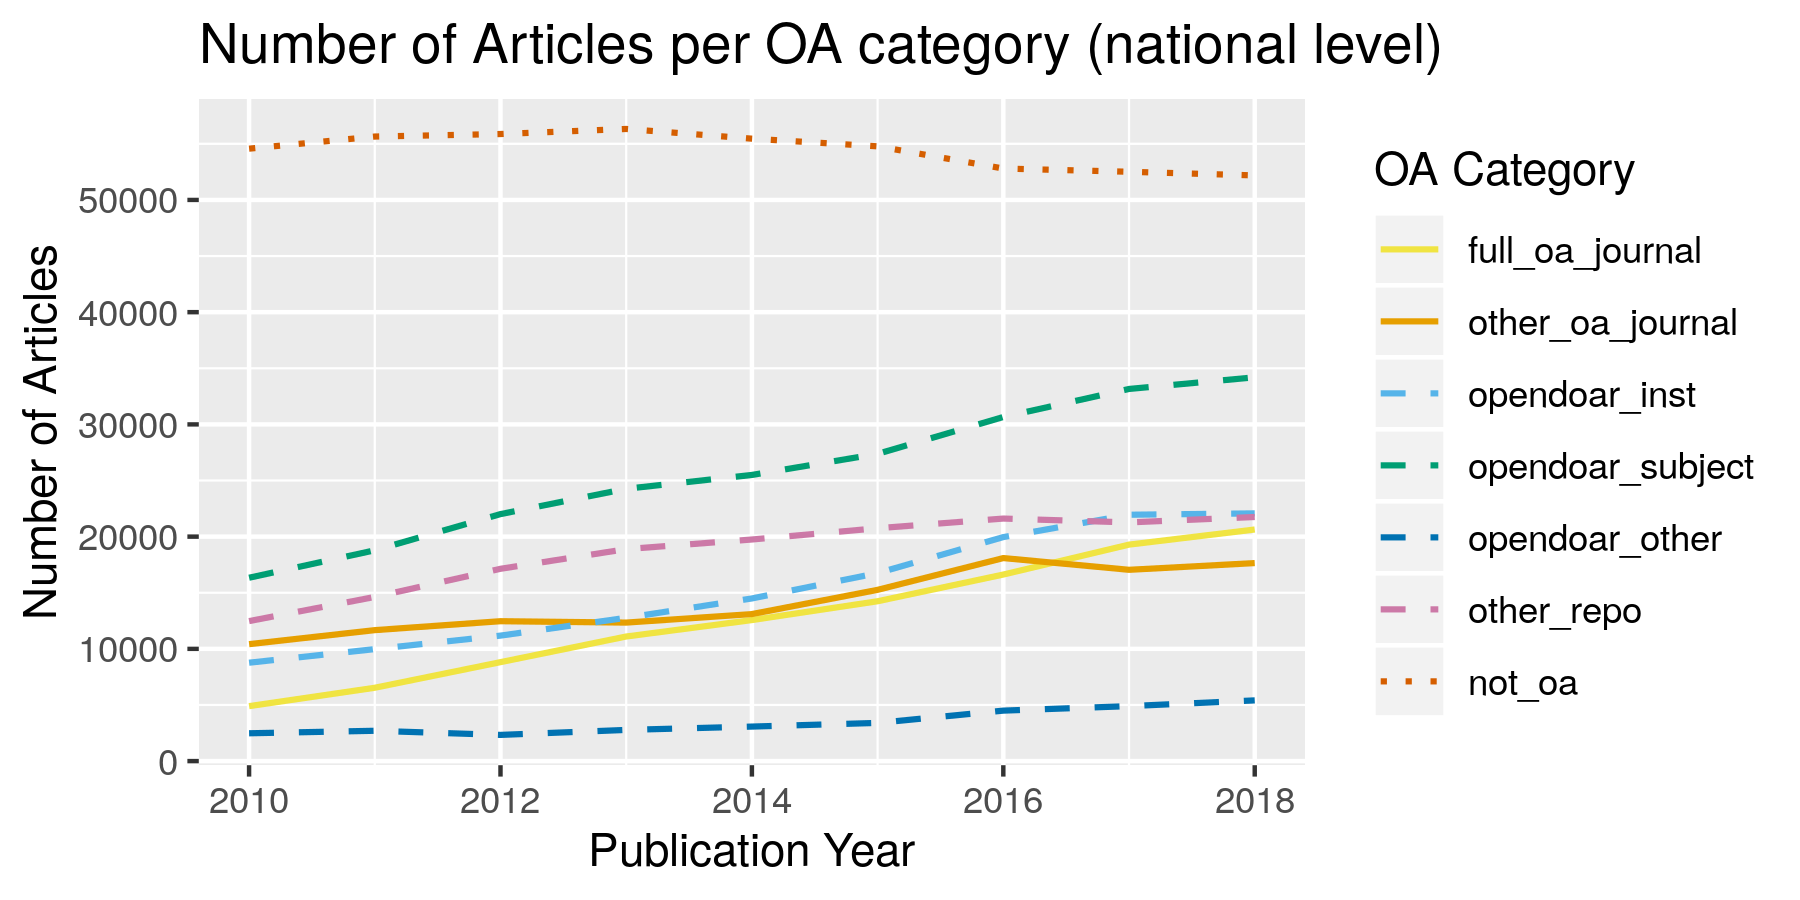
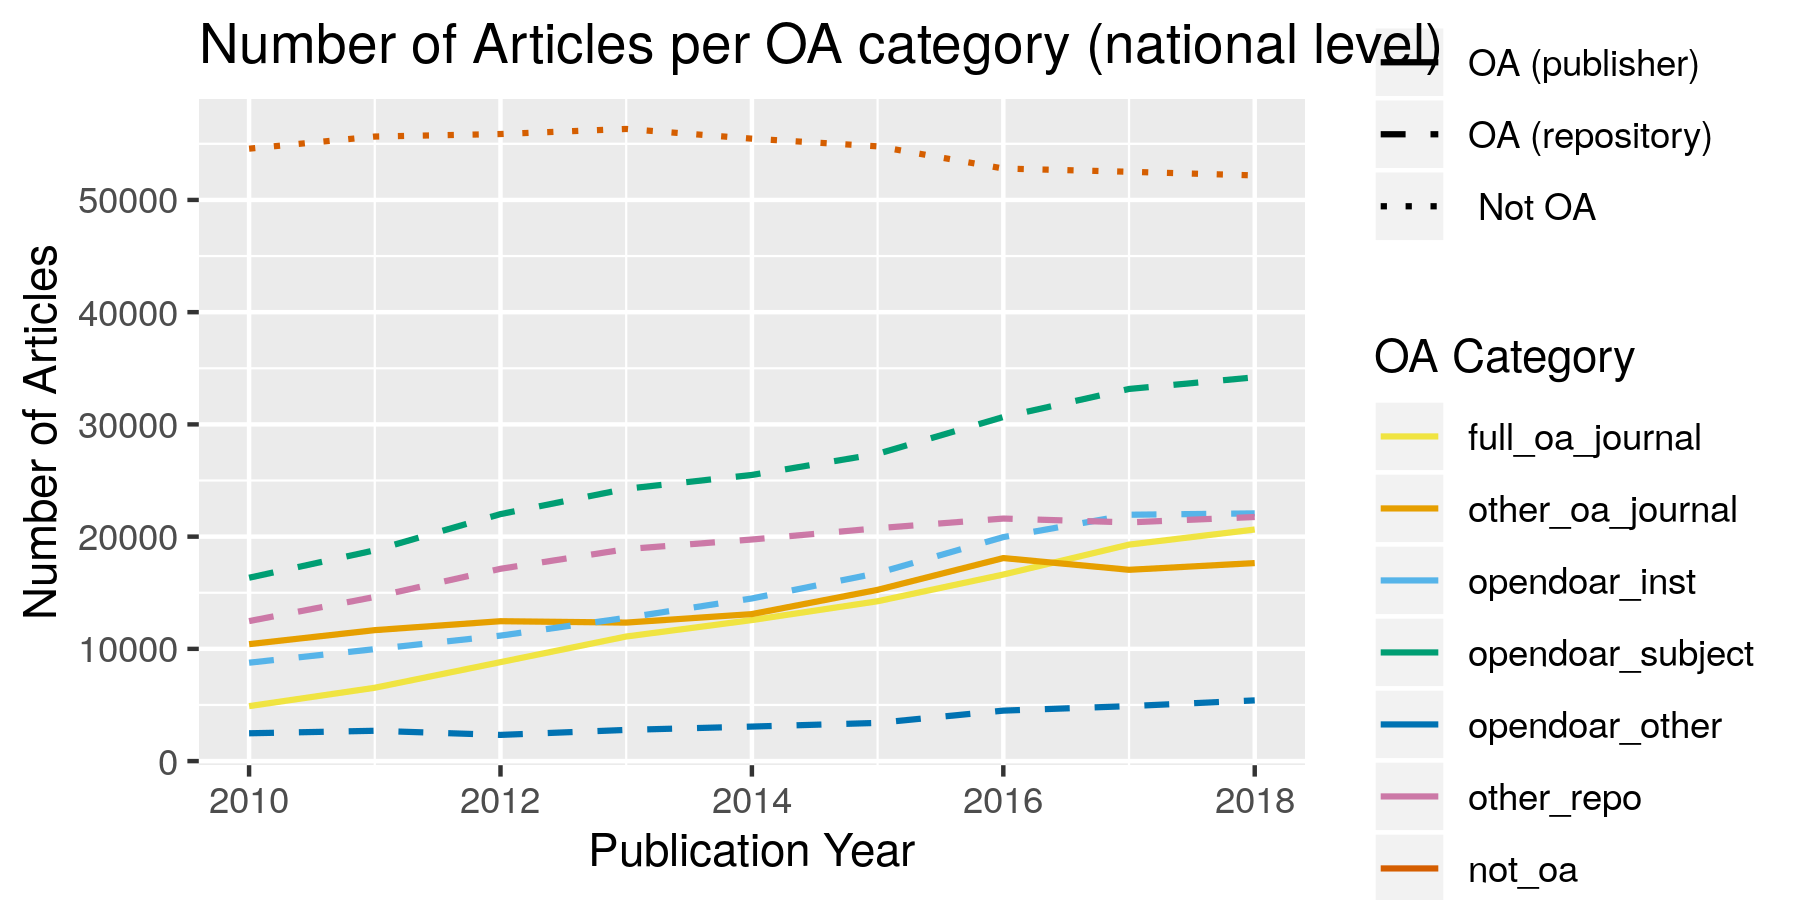
change legend for line plot

diff --git a/analysis.md b/analysis.md
@@ -108,7 +108,7 @@ be counted for several categories and numbers not necessarily sum up to
 the total number of articles
 published.
 
-<img src="analysis_files/figure-gfm/unnamed-chunk-10-1.png" title="Development of the total number of journal articles over time per OA category (as per schema in Table 1). Categories are non-exclusive, that is some articles may be counted for a journal and a repository category." alt="Development of the total number of journal articles over time per OA category (as per schema in Table 1). Categories are non-exclusive, that is some articles may be counted for a journal and a repository category." width="90%" style="display: block; margin: auto;" />
+<img src="analysis_files/figure-gfm/unnamed-chunk-10-1.png" title="Development of the total number of journal articles over time per OA category (as per schema in Table 1). Categories are non-exclusive, that is some articles may be counted for a journal and a repository category. Colors correspond to the OA category, linetypes to whether a publication is not OA (dotted), or is available through a repository (dashed) or a publisher (solid)." alt="Development of the total number of journal articles over time per OA category (as per schema in Table 1). Categories are non-exclusive, that is some articles may be counted for a journal and a repository category. Colors correspond to the OA category, linetypes to whether a publication is not OA (dotted), or is available through a repository (dashed) or a publisher (solid)." width="90%" style="display: block; margin: auto;" />
 Observations:
 
   - drop in other oa journal -\> Delayed OA
